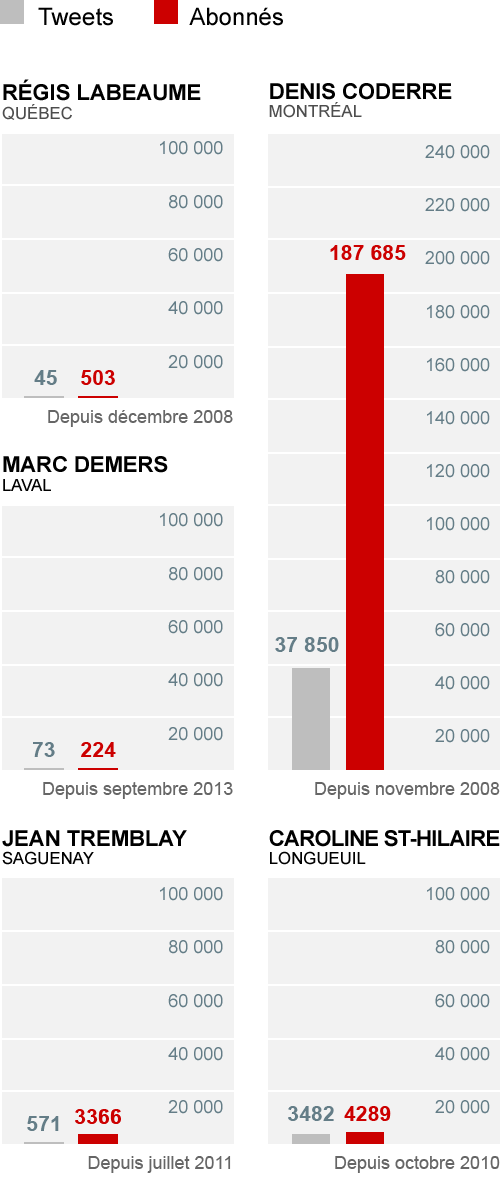
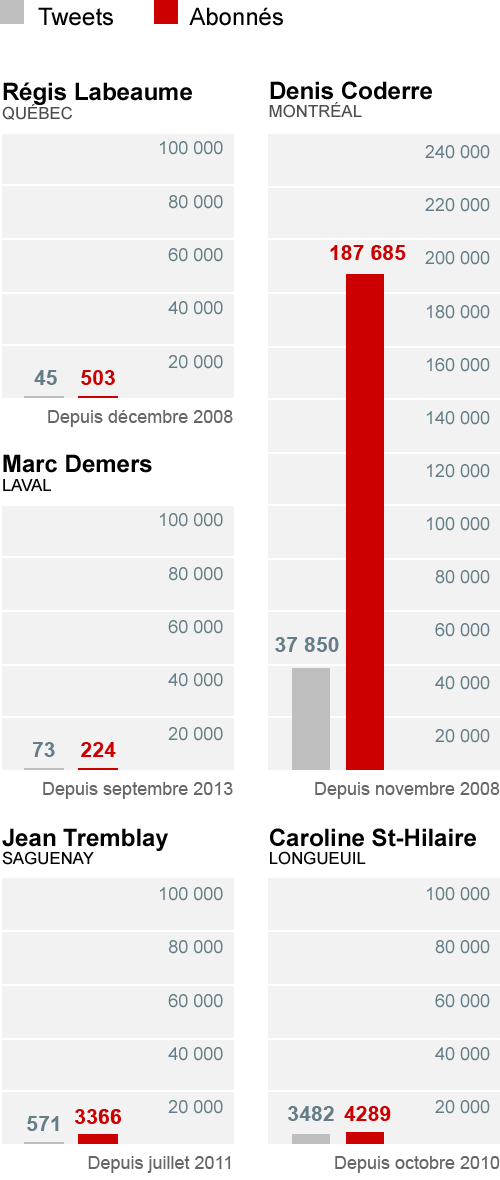
CQ Design
- Type & UI adjustments
- No Open Sans

diff --git a/index.html b/index.html
@@ -122,7 +122,7 @@
                     
 <!--section-->
                     
-                    <h2>DENIS CODERRE OU… «&nbsp;<span class="italic">COACH MAYOR</span>&nbsp;»? </h2>
+                    <h2>Denis Coderre ou… «&nbsp;<span class="italic">coach mayor</span>&nbsp;»? </h2>
                     <p>Si Denis Coderre est connu sur ce réseau social, ce n’est pas uniquement pour son profil politique. Partisan inconditionnel du Canadien, le maire ne ménage pas les 140 caractères lors des matchs. Certains le surnomment même «&nbsp;<span class="italic">coach mayor</span>&nbsp;». Avec raison, puisque parmi les cinq mots-clics les plus souvent utilisés par le maire, trois sont en lien avec le hockey. </p>
 <!--                    cet élément apparaîtra seulement sur l'application mobile-->
                     <div id="lien_mobile"><a href="http://ici.radio-canada.ca/special/denis-coderre-montreal-twitter/">Cliquer ici</a> pour profiter pleinement de l'expérience mobile</div>
@@ -130,14 +130,14 @@
                     <p class="description">Mots-clics les plus souvent utilisés<br/></p>
 
                     <div class="legend-container" id="visu-bulle-legend">
-                        <div id="visu-bulle-filtre">Cliquer sur la légende pour filtrer par catégorie</div>
+                        <div id="visu-bulle-filtre"><p class="description_n3">Cliquer sur la légende pour filtrer par catégorie<br/></p></div>
                         
                         <span class="legend" style="background-color:#e06666">Sport</span>
                         <span class="legend"  style="background-color:#aad4e5">Politique</span>
                         <span class="legend" style="background-color:#65b9ab">Culture</span>
                         <span class="legend"  style="background-color:#75a2cb">Cause</span>
                         <span class="legend" style="background-color:#eb974f">Humeur</span>
-                        <span class="legend" style="background-color:#f2f2f2">Tout</span>
+                        <span class="legend" style="background-color:#dedede">Tout</span>
                         
                     </div>
 
@@ -181,11 +181,11 @@
                     <br/>
                     <div id="visu-reponses">
                         <div class="chart-container" id="visu-reponses1">
-                            Denis Coderre
+                            <p class="description_n2">Denis Coderre</p>
                             <div class="chart-inner-container"></div>
                         </div>
                         <div class="chart-container" id="visu-reponses2">
-                            Caroline St-Hilaire
+                            <p class="description_n2">Caroline St-Hilaire</p>
                             <div class="chart-inner-container"></div>
                         </div>
                     </div>
@@ -195,8 +195,9 @@
                     
                     <p>«&nbsp;Faites le test. Tentez de rejoindre le maire ou un conseiller par téléphone ou via Twitter. Le test est assez concluant. Les réponses sont beaucoup plus rapides sur Twitter&nbsp;», affirme Louis Aucoin. Les réseaux sociaux n’influencent pas les grandes orientations politiques, certes. Mais le maire est à l’écoute des citoyens qui se plaignent de ce qui se passe dans leur quartier. <br/></p>
                     
-                    <p>Les pics anti-itinérants installés devant le magasin Archambault, sur la rue Sainte-Catherine, en sont un exemple. Le sujet a enflammé les réseaux sociaux, en juin dernier, soulevant l’indignation générale. Denis Coderre n’a pas tardé à réagir. On lui doit même le mot-clic #PicsDeLaHonte. Chronologie d’un dossier réglé en moins de deux heures.<br/></p>
+                    <p>Les pics anti-itinérants installés devant le magasin Archambault, sur la rue Sainte-Catherine, en sont un exemple. Le sujet a enflammé les réseaux sociaux, en juin dernier, soulevant l’indignation générale. Denis Coderre n’a pas tardé à réagir. On lui doit même le mot-clic #PicsDeLaHonte.<br/></p>
                     
+                    <p class="description">Chronologie d’un dossier réglé en moins de deux heures<br/></p>
                     <div class="single-item"></div>
 
                     <div class="evenement">
@@ -207,7 +208,7 @@
                                 Les pics anti-itinérants sont inacceptables!!!!
                             </div>
                             <hr>
-                            10:23 - 10 Juin 2014
+                            <strong>10:23 - 10 Juin 2014</strong>
                         </div>
 
                         <div class="tweet">
@@ -217,7 +218,7 @@
                                 Je me rends sur les lieux pour voir ces inacceptables pics.... #pasdebonsens
                             </div>
                             <hr>
-                            10:50 - 10 Juin 2014
+                            <strong>10:50 - 10 Juin 2014</strong>
                         </div>
 
                         <div class="tweet">
@@ -227,7 +228,7 @@
                                 Je vous garantis que ces pics vont disparaître aujourd'hui même si devons les enlever nous-mêmes!!! #picsdelahonte
                             </div>
                             <hr>
-                            11:25 - 10 Juin 2014
+                            <strong>11:25 - 10 Juin 2014</strong>
                         </div>
 
                         <div class="tweet">
@@ -238,7 +239,7 @@
                                 souhaite également qu'on les retire #solidarité
                             </div>
                             <hr>
-                            11:33 - 10 Juin 2014
+                            <strong>11:33 - 10 Juin 2014</strong>
                         </div>
 
                         <div class="tweet">
@@ -249,7 +250,7 @@
                                 l'immeuble enlèvent les pics http://t.co/iiN1YslUWm
                             </div>
                             <hr>
-                            11:57 - 10 Juin 2014
+                            <strong>11:57 - 10 Juin 2014</strong>
                         </div>
                     </div>
 
@@ -275,9 +276,11 @@
 
 
                     <p class="credit-radcan">
+                        <br>
                         <strong>Un projet de ICI Grand Montréal</strong>
                     </p>
-                    <p class="credit-radcan"> Concept et recherche&nbsp;: <strong>Marie-Ève Tremblay</strong><br/>Développement : <strong>Christophe Viau, Pascal Viau, Christian Jauvin</strong><br/>Design&nbsp;: <strong>Santiago Salcido</strong><br/>Coordination&nbsp;: <strong>Claudia Timmons</strong></p>
+                    <p class="credit-radcan"> <strong>Concept et recherche</strong>&nbsp;: Marie-Ève Tremblay<br/><strong>Développement :</strong> Christophe Viau, Pascal Viau, Christian Jauvin<br/><strong>Design</strong>&nbsp;: Santiago Salcido<br/><strong>Coordination</strong>&nbsp;: Claudia Timmons</p>
+                    <br>
                     <div class="viafoura">
                         <div class="vf-comments vf-widget" data-widget="comments" ></div>
                     </div>

diff --git a/css/chart-style.css b/css/chart-style.css
@@ -10,14 +10,15 @@ div {
 .chart-container {
   position: relative;
   height: 400px;
-  margin-bottom: 10px;
+  margin-bottom: 40px;
 }
 
 .chart {
   position: relative;
 /*  padding-bottom: 4px;*/
-  font-family: "Open Sans";
-  font-weight: 300;
+  font-family: "Arial";
+  font-weight: 200;
+  color: #000000
 }
 
 .chart .label {
@@ -25,7 +26,7 @@ div {
   overflow: hidden;
   text-overflow: ellipsis;
   white-space: nowrap;
-  font-family: "Open Sans";
+  font-family: "Arial";
 }
 
 .chart .label-text {
@@ -56,20 +57,20 @@ div {
 }
 
 .bar.chart .label {
-  font-size: 0.7em;
+  font-size: 0.8em;
   padding: 0 0 0 10px;
 }
 
 .bar.chart .label-title {
-  font-size: 12px;
+  font-size: 13px;
   line-height: 15px;
   margin: 0px 0px 20px 0px;
-  font-family: "Open Sans";
+  font-family: "Arial";
   font-weight: 300;
 }
 
 .bar2d.chart .bar {
-  background-color: #fbb977;
+  background-color: #e6e6e6;
 }
 
 .bar2d.chart .label {
@@ -88,20 +89,15 @@ div {
   height: 700px;    
 }
 
-#visu-bulle-filtre{
-    color:#a2a1a1;
-    font-size: 12px;
-
-}
 
 .bubble.chart .node {
   border: 0px solid silver;
-  background-color: #fbb977;/*couleur des bulles*/
-/*  cursor: pointer;*/
+  background-color: #d9d9d9;
+  cursor: pointer;
 }
 
 .bubble.chart .value {
-  font-size: 0.5em;
+  font-size: 0.4em;
 }
 
 .bubble.chart .top {
@@ -127,13 +123,6 @@ div {
 #visu-reponses1, #visu-reponses2 {
   width: 50%;
   float: left;
-  text-align: center;
-  font-size: 14px;
-  line-height: 16px;
-  font-family: "Arial";
-  font-weight: 600;
-  font-style: normal;
-  margin: 0px 0px 5px 0px;
 }
 
 #visu-reponses .chart-inner-container {
@@ -150,6 +139,7 @@ div {
 .tweet {
   border: 1px solid silver;
   border-radius: 6px;
+  background-color: #f7f7f7;
   padding: 10px;
   font-size: 12px;
   line-height: 14px;
@@ -167,6 +157,7 @@ div {
 
 .tweet .avatar, .tweet .handle {
   float: left;
+    color: #666666;
 }
 
 .tweet .handle {
@@ -177,31 +168,19 @@ div {
   clear: both;
   font-size: 1.2em;
   line-height: 1.3em;
-  color: rgba(22, 22, 22, 1);
+  color: #333333;
 }
-
-
 
 .chart-tooltip {
-  background-color: rgba(242, 242, 242, 1);
-  border-radius: 5px;
-  padding: 4px;
-  line-height: 120%;    
-  margin-top: -20px;
-  margin-left: -60px;
-  max-width: 200px;    
-}
-
-#visu-bulle .chart-tooltip {   
-  margin-top: -45px;
-  margin-left: -20px;
-  max-width: 80%;    
-}
-
-#visu-retweets .chart-tooltip {   
-  margin-top: -45px;
-  margin-left: 10px;
-  max-width: 100%;
+  background-color: rgba(255, 255, 255, 0.92);
+  border-radius: 4px;
+  padding: 8px;
+  margin-top: -30px;
+  margin-left: 5px;
+  line-height: 1.3em;
+  font-size: .9em;
+  color: #333333;
+  border: 1px solid #cccccc;
 }
 
 .legend-container {
@@ -222,6 +201,7 @@ div {
   padding: 10px 10px 10px 10px;
   height: 35px;
   line-height: 35px;
+  font-size: 14px
 }
 
 @media (max-width: 1000px) {
@@ -271,8 +251,8 @@ div {
 #image-container {
   height: 505px;
   width: 100%;    
-  background-image: url("../img/cinq_maires_3col_600x475-hd.png");
-  background-size: 600px 475px;    
+  background-image: url("../img/cinq_maires_5col_700x435-hd.png");
+  background-size: 700px 435px;    
   padding-right: 150px;
   background-position: center;
 }
@@ -320,10 +300,6 @@ div {
   #visu-bulle {
     height: 500px;
   }
-      .legend {
-    padding: 5px 5px 5px 5px;
-    line-height: 35px;  
-  }
 }
 
 @media (max-width: 480px) {
@@ -340,7 +316,6 @@ div {
   } 
   .legend {
     padding: 5px 5px 5px 5px;
-    line-height: 35px;  
   }
   .bar2d.chart .label {
     margin-left: -1px;

diff --git a/css/style.css b/css/style.css
@@ -90,14 +90,18 @@ p {
    text-align: left;
 }
 
+strong {
+    font-weight: bold
+}
+
 h2 {
-   font-family: "Rubrik";
+   font-family: "Arial";
    margin: 0px 0px 0.931em 0px;
-   text-transform: uppercase;
    padding: 20px 0px 0px 0px;
-   font-size: 20px;
-   line-height: 22px;
-   color: rgba(148, 148, 148, 1);
+   font-size: 23px;
+   line-height: 25px;
+   font-weight: bold;
+   color: #333333;
 }
 
 p.pullquote {
@@ -179,16 +183,23 @@ h3 {
 }
 
 p.description {
-   font-size: 14px;
-   line-height: 16px;
    font-family: "Arial";
    font-weight: 600;
    font-style: normal;
-   margin: 0px 0px 5px 0px;
+   line-height: 18px;
+   margin: 0px 0px 15px 0px;
 }
 
-#lien_mobile{
-    margin-bottom: 30px;
+p.description_n2 {
+   font-size: 14px;
+   font-weight: bold;
+   text-transform: uppercase
+   margin: 0px 0px 8px 0px;
+}
+
+p.description_n3 {
+   font-size: 12px;
+   margin: 0px 0px 8px 0px;
 }
 
 nav.menu-nav {
@@ -393,14 +404,13 @@ p.intromobile {
 
 p.soustitre {
    text-align: right;
-   font-size: 1.1em;
-   font-family: "Arial";
-   text-transform: inherit;
+   font-size: 1em;
+   font-family: "RubrikLt";
+   text-transform: uppercase;
    color: rgba(255, 255, 255, 1);
    line-height: 1em;
    padding: 0px 0px 0px 120px;
    margin: 15px 0px 22.7360000610352px 0px;
-   border-color: inherit;
 }
 
 code {
@@ -543,7 +553,7 @@ h1 {
 }
 
 p.soustitre {
-	 font-size: 24px;
+	 font-size: 20px;
 }
 
 p {
@@ -579,7 +589,7 @@ h1 {
 }
 
 p.soustitre {
-	 font-size: 1.7em;
+	 font-size: 1.5em;
 	 line-height: 1em;
 	 letter-spacing: 0px;
 	 margin: 30px 0px 22.7360000610352px 0px;
@@ -598,5 +608,3 @@ h2 {
 p.intro {
 	 padding: 15px 0px 35px 0px;
 }
-
-} 
